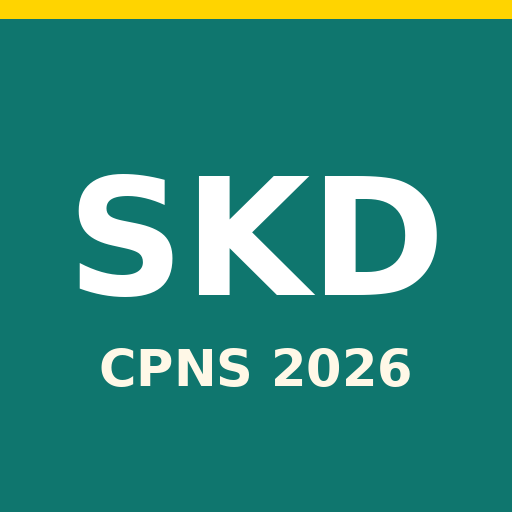
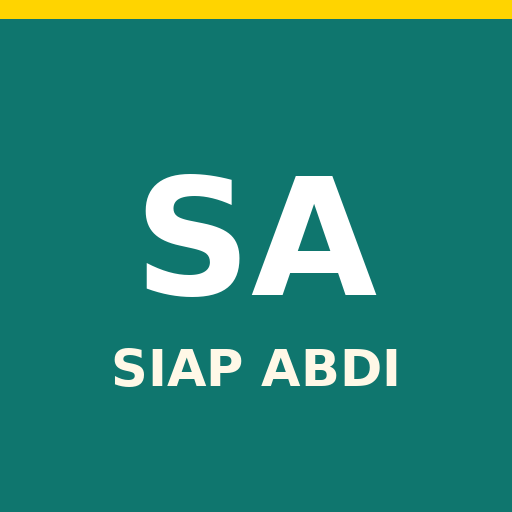
Rebrand Siap Abdi — jalur CPNS aktif, TNI/Polri/BUMN segera hadir

Changed region(s): [[0.1562, 0.3125, 0.875, 0.5938], [0.1875, 0.6562, 0.8125, 0.7812]]

diff --git a/index.html b/index.html
@@ -5,7 +5,7 @@
 <meta name="viewport" content="width=device-width, initial-scale=1, viewport-fit=cover">
 <meta name="color-scheme" content="light dark">
 <link rel="icon" href="data:,">
-<title>Bank Soal SKD CPNS 2026</title>
+<title>Siap Abdi — Latihan Soal CPNS, TNI, Polri &amp; BUMN</title>
 <link rel="manifest" href="manifest.webmanifest">
 <meta name="theme-color" content="#0f766e">
 <link rel="preconnect" href="https://fonts.googleapis.com">
@@ -76,6 +76,14 @@ p{margin:0 0 10px}
 .big small{display:block;opacity:.92;font-size:.92rem;margin-top:2px}
 .big:active{transform:translate(3px,3px);box-shadow:1px 1px 0 rgba(0,0,0,.2)}
 .g3{display:grid;grid-template-columns:repeat(3,1fr);gap:10px}
+.paths{display:grid;grid-template-columns:1fr 1fr;gap:10px;margin:12px 0}
+.path{border:2px solid var(--bd);border-radius:6px;background:var(--card);color:var(--ink);padding:14px;box-shadow:var(--sh-sm);text-align:left;font:inherit}
+.path b{font-family:"Space Grotesk",sans-serif;font-size:1.15rem;display:block}
+.path span{display:block;font-size:.85rem;color:var(--mut);margin:2px 0 8px;line-height:1.45}
+button.path{cursor:pointer;width:100%}
+button.path:active{transform:translate(2px,2px);box-shadow:none}
+button.path:focus-visible{outline:3px solid var(--teal);outline-offset:2px}
+.path.soon{opacity:.72}
 .tile{min-height:96px;border-radius:6px;border:2px solid var(--bd);background:var(--card);color:var(--ink);font:inherit;cursor:pointer;box-shadow:var(--sh-sm);display:flex;flex-direction:column;align-items:center;justify-content:center;gap:1px;padding:10px 4px}
 .tile:active{transform:translate(2px,2px);box-shadow:none}
 .tile b{font-family:"Space Grotesk",sans-serif;font-size:1.3rem;color:var(--teal)}
@@ -724,7 +732,14 @@ function bindTheme(){const b=document.getElementById("thm");if(!b)return;b.oncli
 function home(){
   const prem=isPremium(), fl=freeLeft(), fs=freeState(), h=hist();
   app.innerHTML=`
-  <header class="hd"><div class="logo">SKD</div><div class="grow"><h1>Latihan SKD CPNS 2026</h1><p class="mut" style="margin:0">${Q.length} soal \u00B7 ${TOPICS.length} topik \u00B7 TWK ${nQ("TWK")} \u00B7 TIU ${nQ("TIU")} \u00B7 TKP ${nQ("TKP")} \u00B7 ada pembahasan</p></div>${themeBtnHTML()}</header>
+  <header class="hd"><div class="logo">SA</div><div class="grow"><h1>Siap Abdi</h1><p class="mut" style="margin:0">Latihan Soal CPNS, TNI, Polri &amp; BUMN</p></div>${themeBtnHTML()}</header>
+  <h2 style="margin-top:6px">Pilih jalur</h2>
+  <div class="paths">
+    <button class="path" id="jalurcpns"><b>CPNS</b><span>SKD \u00B7 ${Q.length} soal \u00B7 ${TOPICS.length} topik \u00B7 TWK ${nQ("TWK")} \u00B7 TIU ${nQ("TIU")} \u00B7 TKP ${nQ("TKP")} \u00B7 ada pembahasan</span><span class="tag">AKTIF</span></button>
+    <div class="path soon" aria-disabled="true"><b>TNI</b><span>Latihan seleksi TNI belum tersedia.</span><span class="locktag">SEGERA HADIR</span></div>
+    <div class="path soon" aria-disabled="true"><b>Polri</b><span>Latihan seleksi Polri belum tersedia.</span><span class="locktag">SEGERA HADIR</span></div>
+    <div class="path soon" aria-disabled="true"><b>BUMN</b><span>Latihan seleksi BUMN belum tersedia.</span><span class="locktag">SEGERA HADIR</span></div>
+  </div>
   <div class="disc"><b>Penting:</b> Aplikasi latihan mandiri ini <b>bukan aplikasi resmi BKN dan tidak menjamin kelulusan</b>. Soal disusun sendiri mengacu kisi-kisi KepmenPANRB 321/2024. <b>Soal Figural belum tersedia di v1</b> — sedang disiapkan untuk v2.</div>
   ${prem?`<div class="card" style="border-color:var(--teal)"><span class="sticker">PREMIUM AKTIF</span><p style="margin:10px 0 0">Semua fitur terbuka: bank ${Q.length} soal, latihan tanpa batas, semua trik &amp; teknik, dan Simulasi Penuh 110 soal / 100 menit.</p></div>`
   :`<div class="card"><span class="sticker">GRATIS HARI INI</span><p style="margin:10px 0 4px">Sisa latihan gratis: <b>${fl} dari 10 soal</b> \u00B7 Simulasi Mini: <b>${fs.miniUsed?"sudah dipakai":"1x gratis"}</b> \u00B7 Topik gratis penuh: <b>${FREE_TOPIC}</b></p><p class="mut" style="margin:0">Premium ${HARGA} sekali bayar membuka semuanya, tanpa langganan.</p><button class="btn yel" id="goprem"><span class="grow" style="text-align:center">Buka Premium \u2014 ${HARGA}</span></button></div>`}
@@ -746,6 +761,7 @@ function home(){
   const $=id=>document.getElementById(id);
   bindTheme();
   if($("goprem"))$("goprem").onclick=()=>premiumPage();
+  $("jalurcpns").onclick=()=>{const el=$("q10");if(el)el.scrollIntoView({behavior:"smooth",block:"start"})};
   $("q10").onclick=()=>startLatihan({mode:"ALL",label:"Latihan acak"});
   app.querySelectorAll("[data-k]").forEach(b=>b.onclick=()=>startLatihan({mode:"SUB",k:b.dataset.k,label:"Latihan "+b.dataset.k}));
   $("simfull").onclick=()=>{if(!isPremium())return premiumPage("Simulasi Penuh 110 soal / 100 menit adalah fitur Premium.");startExam("full")};
@@ -856,7 +872,7 @@ function premiumPage(note){
   document.getElementById("wabuy").onclick=()=>{
     const box=document.getElementById("wamsg");
     if(!FEEDBACK){box.innerHTML=`<div class="msg err"><b>Pembelian via WhatsApp belum aktif.</b> Nomor WhatsApp bisnis MUGA STUDIO belum diisi, jadi tombol ini belum bisa menghubungkanmu ke admin. Bila kamu sudah membeli dan menerima kode dari admin, masukkan kodemu di bawah \u2014 aktivasi kode tetap berfungsi.</div>`;return}
-    const text="Halo MUGA STUDIO, saya mau beli Premium Latihan SKD CPNS 2026 "+HARGA+". Saya sudah coba latihan gratisnya.";
+    const text="Halo MUGA STUDIO, saya mau beli Premium Siap Abdi (jalur CPNS) "+HARGA+". Saya sudah coba latihan gratisnya.";
     window.open("https://wa.me/"+FEEDBACK+"?text="+encodeURIComponent(text),"_blank","noopener");
   };
   document.getElementById("act").onclick=()=>{

diff --git a/sw.js b/sw.js
@@ -1,5 +1,5 @@
 // Naikkan angka versi ini setiap kali kamu mengganti index.html agar HP mengambil versi baru.
-const V = "skd-v6";
+const V = "skd-v7";
 const FILES = ["./", "index.html", "manifest.webmanifest", "icon-192.png", "icon-512.png", "icon-maskable-512.png"];
 
 self.addEventListener("install", (e) => {

diff --git a/README.md b/README.md
@@ -1,6 +1,6 @@
-# Latihan SKD CPNS 2026 — GitHub Pages (demo/uji)
+# Siap Abdi — GitHub Pages (demo/uji)
 
-Aplikasi web (PWA) latihan soal SKD CPNS 2026: bank 400 soal (TWK 140, TIU 140, TKP 120), pembahasan, trik jawab cepat, Simulasi Mini 24 soal/22 menit dan Simulasi Penuh 110 soal/100 menit, freemium + Premium Rp15.000 via kode aktivasi.
+Aplikasi web (PWA) Siap Abdi — Latihan Soal CPNS, TNI, Polri & BUMN. Jalur CPNS tersedia: bank 400 soal (TWK 140, TIU 140, TKP 120), pembahasan, trik jawab cepat, Simulasi Mini 24 soal/22 menit dan Simulasi Penuh 110 soal/100 menit, freemium + Premium Rp15.000 via kode aktivasi. Jalur TNI, Polri, dan BUMN segera hadir.
 
 **Status: DEMO/UJI — BELUM LAYAK JUAL.** Penjualan dilarang sampai vonis Go/No-Go (7/7 syarat). Soal Figural (gambar) belum tersedia di v1. Aplikasi ini bukan aplikasi resmi BKN dan tidak menjamin kelulusan; soal dibuat sendiri, bukan soal asli/bocoran BKN.
 
